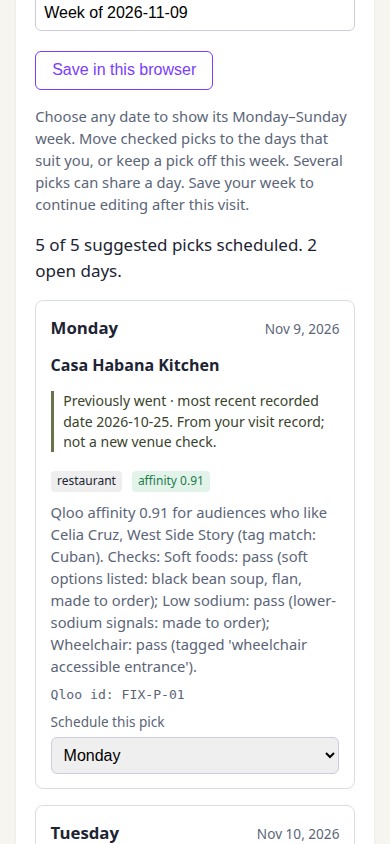
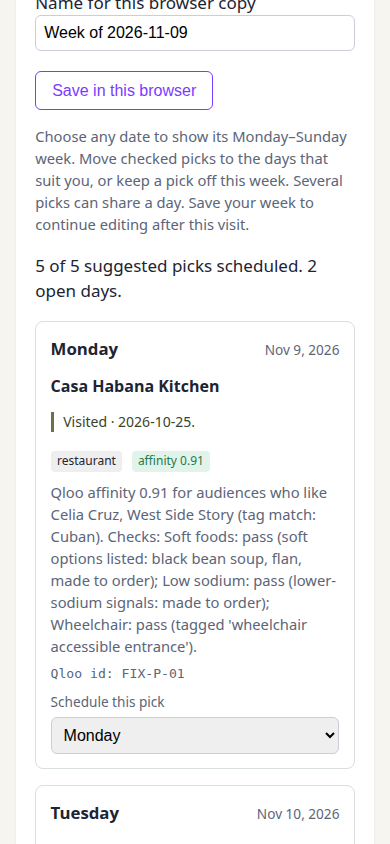
Keep prior visit labels brief beside scheduling decisions

diff --git a/static/index.html b/static/index.html
@@ -53,7 +53,7 @@
 
   <details id="visitHistory" class="visit-history">
     <summary>Remember places you already visited</summary>
-    <p>Open a saved visit record to mark matching places in this tab's plans. Only visits marked “went” count. Your notes stay on this device. Clear before planning for someone else.</p>
+    <p>Open a saved visit record to mark matching places in this tab's plans. Only visits marked “went” count. Marks come from your record, not a new venue check; dates show the latest dated visit. Your notes stay on this device. Clear before planning for someone else.</p>
     <button type="button" data-history-open>Open visit record</button>
     <button type="button" data-history-clear disabled>Clear visit context</button>
     <input type="file" accept=".json,application/json" aria-label="Choose prior visit record" hidden>

diff --git a/docs/VISIT_HISTORY.md b/docs/VISIT_HISTORY.md
@@ -8,9 +8,11 @@ This is one record for one planning context. Clear before planning for another p
 
 ## Current gaps, ranked
 
-1. Judge usefulness with real caregiver-provided records and a live Qloo response; current reproducible integration uses clearly labeled synthetic fixtures.
-2. A caregiver with several records currently must choose one; a future explicit multi-record review needs overlap handling before aggregation can be honest.
-3. Keep the broader planner's dense controls and handoffs accessible on phones; this change does not redesign the full application.
+1. Independent judge astra-47b3 accepted the scoped attendance improvement after real desktop/phone use and comparison with primary Beli/Mapstr screenshots. The broader plan remains wordy with uniform tall cards; move secondary source evidence behind accessible detail while keeping decisions visible.
+2. Validate usefulness with real caregiver-provided records and a live Qloo response; current reproducible integration uses clearly labeled synthetic fixtures.
+3. A caregiver with several records currently must choose one; an explicit multi-record review needs overlap handling before aggregation can be honest.
+
+Judge-directed refinement: compact “Visited · date” labels replace the repeated per-venue caveat. Source/check limitations now appear once beside the import controls. Root evidence: own unfamiliar dated/undated records, not-going excluded, later plan/request privacy, clear, 390px no overflow and zero browser errors.
 
 ## Checks
 
